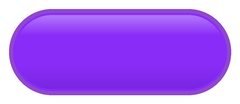
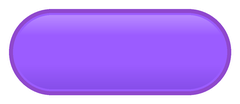
feat(ui): adopt the V12 palette in the shared art pipeline
The palette was the cheapest real step toward the new design sheets, and it turned
out to be a single file: art-source/vector/palette.py feeds generate_ui_art.py, so
one edit restyles every generated UI asset consistently.

Its docstring recorded that the values were SAMPLED from the V9.5 adopted renders.
The seven new sheets, which the user named as the current visual target, print
their bases as labelled swatches, so the new values are read rather than guessed:
DESIGN_01 gives 天空蓝 #4EC5FF, 主角色 #9B5CFF, 亮暖黄 #FFD60A, 深蓝 UI #1F2A44;
DESIGN_02 gives 浅背景 #EAF2FF. Only the roles the sheets state outright changed.

Deliberately NOT changed, and this is the part worth keeping: the derived partners
-- SKY_TOP/BOTTOM, NAVY_DEEP/LIFT, YELLOW_HI/EDGE, PURPLE_RIBBON/DEEP/HI,
BOARD_CYAN. The sheets do not give them, and shifting them by their base's raw RGB
delta was tried on paper and distorts hue: PURPLE's delta applied to PURPLE_DEEP
turns a deep purple into a grey-navy, because the delta is dominated by the base's
saturation and the deep shade has none. Deriving them properly means sampling the
new sheets per role the way the originals were sampled, which is its own pass.

Regenerating also emitted seven files that were never on disk --
board_endless, chevron_disc, field_home, frame_card, glyph_planet, shadow_soft,
sparkle. All seven have zero references in code, prefabs or scenes, so they were
deleted rather than committed: about 87 KB of unreferenced art would be imported
[…]

diff --git a/art-source/vector/palette.py b/art-source/vector/palette.py
@@ -12,30 +12,51 @@ import it without importing each other.
 # rounded corners and outlines clean edges without a vector rasteriser.
 SS = 4
 
-# --- palette, sampled from the adopted references ---------------------------
-# field: 01-modesel-and-home-language.png, vertical ramp at x = centre
+# --- palette ----------------------------------------------------------------
+# V12: the base roles below now come from the SEVEN NEW DESIGN SHEETS, which the
+# user named as the current visual target, rather than from the V9.5 adopted
+# renders this file originally sampled. The new sheets print their bases as
+# labelled swatches, so these are read, not eyeballed:
+#
+#   DESIGN_01 色彩与风格: 天空蓝 #4EC5FF, 道路灰 #8A9BA8, 草地绿 #7ED957,
+#                         主角色 #9B5CFF, 亮暖黄 #FFD60A, 深蓝 UI #1F2A44
+#   DESIGN_02 色彩方案:   天空蓝 #6EC5FF, 能量紫 #8B5CFF, 活力黄 #FFD44D,
+#                         深蓝灰 #172A4A, 浅背景 #EAF2FF
+#
+# The two sheets disagree on five of six roles. Per V12_DESIGN_REFERENCE_MANIFEST
+# section 2 the resolution is DESIGN_01 as the spec sheet, with DESIGN_02's
+# #EAF2FF taken as the panel base because 01 does not give one.
+#
+# ONLY the roles the sheets state outright are changed here. The derived partners
+# (SKY_TOP/BOTTOM, NAVY_DEEP/LIFT, YELLOW_HI/EDGE, PURPLE_RIBBON/DEEP/HI,
+# BOARD_CYAN) are left alone on purpose: the sheets do not give them, and shifting
+# them by the base's raw RGB delta was tried on paper and distorts hue -- PURPLE's
+# delta applied to PURPLE_DEEP turns a deep purple into a grey-navy, because the
+# delta is dominated by the base's saturation, which the deep shade does not have.
+# Deriving them properly means sampling the new sheets for each partner the way
+# the original values were sampled, which is a separate pass.
 SKY_TOP = '#b3eefd'
-SKY_MID = '#52d0fe'
+SKY_MID = '#4ec5ff'
 SKY_BOTTOM = '#1aa4f5'
-# brand plate and display type: 01-modesel..., brand band
-NAVY_PLATE = '#031d4d'
+# brand plate and display type: DESIGN_01 深蓝 UI
+NAVY_PLATE = '#1f2a44'
 NAVY_DEEP = '#04235c'
 NAVY_LIFT = '#123a7d'
 GOLD = '#fbe572'
 GOLD_LIGHT = '#fcf3bb'
-# primary capsule: 01-modesel..., primary capsule region
-YELLOW = '#fec303'
+# primary capsule: DESIGN_01 亮暖黄
+YELLOW = '#ffd60a'
 YELLOW_HI = '#fcf8d9'
 YELLOW_EDGE = '#fee88e'
 BROWN_LABEL = '#58351a'
-# secondary capsule and ribbon: 02-settlement.png
-PURPLE = '#8a2cf7'
+# secondary capsule and ribbon: DESIGN_01 主角色 / 能量紫
+PURPLE = '#9b5cff'
 PURPLE_RIBBON = '#8f48cd'
 PURPLE_DEEP = '#220982'
 PURPLE_HI = '#c9a4ff'
-# settlement board: 02-settlement.png
+# settlement board: DESIGN_02 浅背景
 BOARD_CYAN = '#39bafa'
-BOARD_PANEL = '#e8f6fb'
+BOARD_PANEL = '#eaf2ff'
 ROW_LOCAL = '#d8fcd5'
 REWARD_GOLD = '#fef0a5'
 REWARD_EDGE = '#cc7d12'
